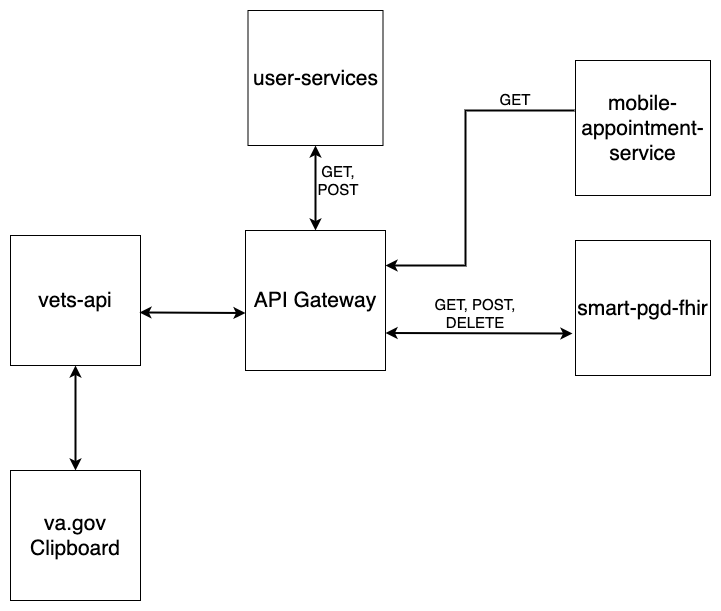
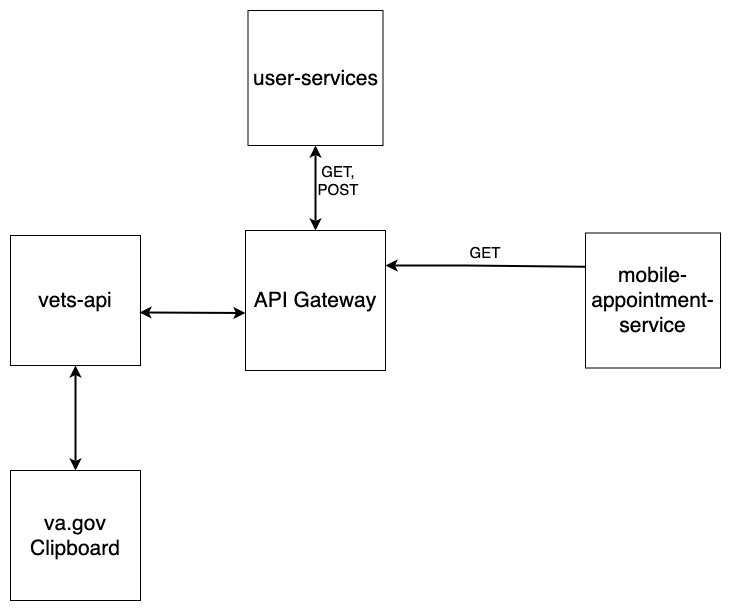
updated MAP access request for appt data for Clipboard app

diff --git a/products/health-care/questionnaire/engineering/MAP/Clipboard_vagov_sdd.md b/products/health-care/questionnaire/engineering/MAP/Clipboard_vagov_sdd.md
@@ -17,8 +17,6 @@ Veterans unable to consistently share and update current health status and medic
 
 When going to a healthcare visit, I want to share my current health status and medical history so that my information can influence and be used to create my treatement plan accross the coninium of care.
 
-VA has implemented a FHIR API that provides external access to Veteran personal health information in the Patient Generated Data (PGD) database in a standardized FHIR format.
-
 VA wants to deliver an intuitive, accessible, and consistent experience in a personalized and engaging platform to enable Veterans and their caregivers to manage their health and well-being. As the VA expands their digital mobile health portfolio, there is a demand to organize the way veterans engage with their care within the VA.
 
 The va.gov Clipboard application will provide Veterans that primarily use va.gov as their entrypoint to VA Digital Resources the ability to view and complete Questionnaires. The UX will be within the existing va.gov ecosystem that provides an intuitive and familiar experience across the va.gov digital products.
@@ -49,12 +47,9 @@ This is the initial relase of the application, V1 of the Clipboard application o
 
 ### Data Access / Storage Overview
 
-| **Data Type**                 |     **VAMF/VA Source**     | **CRUD Operations** | **Data Classification** | **Reason / Requirement**                                                             |
-| :---------------------------- | :------------------------: | :-----------------: | :---------------------- | :----------------------------------------------------------------------------------- |
-| Patient record                |   smart-pgd-fhir-service   |         CR          | PII                     | Create Patient resource if it does not exist                                         |
-| QuestionnaireResponse records |   smart-pgd-fhir-service   |        CRUD         | PHI                     | Manage appointment pre-visit agenda & supplemental family member history information |
-| Questionnaire records         |   smart-pgd-fhir-service   |          R          | PHI                     | Required as references in QuestionnaireResponse related requests                     |
-| Appointment records           | mobile-appointment-service |          R          | PHI                     | Discover upcoming appointments                                                       |
+| **Data Type**       |     **VAMF/VA Source**     | **CRUD Operations** | **Data Classification** | **Reason / Requirement**       |
+| :------------------ | :------------------------: | :-----------------: | :---------------------- | :----------------------------- |
+| Appointment records | mobile-appointment-service |          R          | PHI                     | Discover upcoming appointments |
 
 ### Data Sensitivty Classification (Mobile App Classification)
 
@@ -68,7 +63,7 @@ This is the initial relase of the application, V1 of the Clipboard application o
 ---
 
 - The Clipboard application is built using the [VA Forms System](https://department-of-veterans-affairs.github.io/veteran-facing-services-tools/forms) which provides a consistent experience for complex forms presented to Veterans.
-- Leverages MAP Services - User Service, Mobile Appointment Service, SMART PGD FHIR.
+- Leverages MAP Services - User Service and Mobile Appointment Service.
 - Networks with vets-api service layer to facilitate calls between va.gov and MAP Services.
 
 ## Conceptual Diagram
@@ -79,11 +74,7 @@ This is the initial relase of the application, V1 of the Clipboard application o
 
 The following describes top level data elements entered by the user into the application:
 
-| **Data Element**             | **Brief Description**                                   | **Where Persisted** |
-| :--------------------------- | :------------------------------------------------------ | :------------------ |
-| Appointment Pre-Visit Agenda | Questions/Answers pertaining to an upcoming appointment | smart-pgd-fhir      |
-
-All data elements persisted in smart-pgd-fhir will have the [Clipboard Provenance/Source mapping](). Additional information on how the data elements are persisted in smart-pgd-fhir can be found in the official Clipboard FHIR mappings at [url text](url).  note: links will be updated when FHIR Mapping is approved.
+- No entered data is stored within the MAP infrastructure
 
 # Logical Design Perspective
 
@@ -94,23 +85,23 @@ All data elements persisted in smart-pgd-fhir will have the [Clipboard Provenanc
 - **User Service** - The User Service is a microservice that operates on the current user session; providing login/logout cababilities. User-Service will be used to facilitate the exchange of a va.gov token for a MAP JWT.
 - **API Gateway** - The API Gateway is a customized Nginx-openresty based solution that enables the Mobile NextGen architecture to create a microservice-based architecture.
 - **Mobile Appointment Service** - The Mobile Appointment Service is a microservice that is used to retrieve patient appointment information (used to create Appointment Pre-Visit Agendas).
-- **SMART PGD FHIR Service** - The SMART PGD FHIR Service is a microservice used to retrieve and persist Patient Generated Data (PGD). All data entered via the Clipboard application is persisted via this service.
 
 ## Interface Design
 
 **Login/Authentication**
 
-The Clipboard Application utilizes existing credentialing workflows on va.gov. Once the user is authenticated a Token is sent on the users behalf to the MAP user-service [JWT Exchange workflow](https://coderepo.mobilehealth.va.gov/projects/IUMS/repos/user-service/browse/docs/externalJwtExchange.md). The validated JWT is returned to vets-api and used for all subsequent calls to MAP resources. More information on the authentication and authorization workflow is available in the [va.gov authentication flow description document](vaos_vagov_authFlow.md).  The MAP JWT expires after 10 minutes and is never exposed to the client application.
+The Clipboard Application utilizes existing credentialing workflows on va.gov. Once the user is authenticated a Token is sent on the users behalf to the MAP user-service [JWT Exchange workflow](https://coderepo.mobilehealth.va.gov/projects/IUMS/repos/user-service/browse/docs/externalJwtExchange.md). The validated JWT is returned to vets-api and used for all subsequent calls to MAP resources. More information on the authentication and authorization workflow is available in the [va.gov authentication flow description document](vaos_vagov_authFlow.md). The MAP JWT expires after 10 minutes and is never exposed to the client application.
 
 The token sent to MAP user-service will be signed with the appropriate private key and configured with the following claims
 
-* **sub**: The unique ID for the user. This will be the user's ICN
-* **idType**: ICN 
-* **firstName, lastName**: The given and family names of the user
-* **iss**: gov.va.clipboard
-* **processRules**: true
+- **sub**: The unique ID for the user. This will be the user's ICN
+- **idType**: ICN
+- **firstName, lastName**: The given and family names of the user
+- **iss**: gov.va.clipboard
+- **processRules**: true
 
 The MAP JWT is stored in a secure Redis instance and corelated to the authenticated user with a UUID:
+
 ```Ruby
 module HealthQuest
   class SessionStore < Common::RedisStore
@@ -125,56 +116,34 @@ end
 
 ![](diagrams/JWT_Exchange.png "Figure 2 - Auth Diagram")
 
-**Get/Create Patient**
+**Logout**
 
-After authentication, the application will attempt to retrieve the user's Patient resource within SMART-PGD-FHIR. If the user does not have an existing Patient resource, then one will be created with the user name, ICN as an identifier, and Clipboard Provenance/Source Mapping.
+- The token stored in Redis is invalidated after 15 minutes and the user has to re-authenticate for any subsequent calls into MAP.
 
-![](diagrams/createPatient.png "Figure 4 - Create Patient Diagram")
+**Get Appointments for Veteran**
 
-**Get Past Questionnaire Response Resources**
-The Clipboard Application will call smart-pgd-fhir service to retrieve all Questionnaire Response Resources associated with a user ICN. This data will be parsed and displayed to the user as a history of past Questionnaire Responses, as well as used to pre-fill data fields on new Questionnaire Responses, as appropriate.
+The Clipboard Application will call the mobile-appointment-service endpoint to retrieve past and upcoming appointments associated with the Veteran.
 
-![](diagrams/QuestionnaireResponsesByUserID.png)
-
-**Get Appointment Pre-Visit Agenda Questionnaire**
-The Clipboard Application will call the mobile-appointment-service endpoint to retrieve upcoming appointments associated with the Veteran. Based on the Synthetic ID of the returned appointements, existing Questionnaire Response (QR) Resources will be queried. If there is no QR Resource already associated with this Appointment ID, the approptiate Questionnaire Resource will be retrieved
-
-![](diagrams/QAndQRFromApptID.png)
-
-**Post Questionnaire Response for Pre-Visit Agenda Questionnaire**
-When the user has completed the form in the Clipboard Application and tapped Submit, a JSON object will be passed to vets-api. Vets-api will format the JSON into a QuestionnaireResponse Resource and POST to smart-pgd-fhir service to persist the Questionnaire Response in the PGD.
-
-![](diagrams/postQuestionnaireResponse.png)
-
-**Put | Delete Questionnaire Response**
-In some scenarios, a Clipboard application user may be able to edit or delete an existing QuestionnaireResponse.
-
-![](diagrams/get_delete_QuestionnaireResponse.png)
+![](diagrams/appointments.png)
 
 The following are a list of requests that are made by the Clipboard Mobile application:
 
-| **Endpoint Called**                                                             | **HTTP Action** | **Mobile/External Service** | **Description**                                                                                                                          |
-| :------------------------------------------------------------------------------ | :-------------- | :-------------------------- | :--------------------------------------------------------------------------------------------------------------------------------------- |
-| /users/v2/session                                                               | POST, GET       | user-service                | POST Facilitates JWT Exchange Workflow and GET provides details to create a new Patient Resource                                                                                          |
-| /smart-pgd-fhir/v1/Patient?identifier={icn}&\_sort:desc=\_lastUpdated&\_count=1 | GET             | smart-pgd-fhir              | Retrieves the user's Patient resource from SMART PGD FHIR via their ICN.                                                                 |
-| /smart-pgd-fhir/v1/Patient                                                      | POST            | smart-pgd-fhir              | Creates the user's Patient resource in SMART PGD FHIR                                                                                    |
-| /smart-pgd-fhir/v1/Questionnaire?id={questionnaire-id}                       | GET             | smart-pgd-fhir              | Retrieves a Questionnaire with matching id, which is used as a reference in subsequent QuestionnaireResponse requests to SMART PGD FHIR. |
-| /smart-pgd-fhir/v1/QuestionnaireResponse?subject={appointment-id}               | GET             | smart-pgd-fhir              | Retrieves a QuestionnaireResponse, where the subject is equal to a given appointment id, from SMART PGD FHIR                             |
-| /smart-pgd-fhir/v1/QuestionnaireResponse                                        | POST            | smart-pgd-fhir              | Creates a QuestionnaireResponse in SMART PGD FHIR                                                                                        |
-| /smart-pgd-fhir/v1/QuestionnaireResponse?author={user-id}                       | GET             | smart-pgd-fhir              | Retrieves all QuestionnaireResponses, where the QuestionnaireResponse.author field is equal to the user id, from SMART PGD               |
-| /smart-pgd-fhir/v1/QuestionnaireResponse/{id}                                   | PUT, DELETE          | smart-pgd-fhir              | Update or Delete a QuestionnaireResponse in SMART PGD FHIR                                                                                        |
-| /patients/{icn}/appointments                                                    | GET             | mobile-appointment-service  | Retrieves appointments for the given user                                                                                                |
+| **Endpoint Called**          | **HTTP Action** | **Mobile/External Service** | **Description**                           |
+| :--------------------------- | :-------------- | :-------------------------- | :---------------------------------------- | --- |
+| /users/v2/login              | GET             | user-service                | Authenticates user                        |
+| /users/v2/session            | GET             | user-service                | Facilitates JWT Exchange Workflow         |     |
+| /patients/{icn}/appointments | GET             | mobile-appointment-service  | Retrieves appointments for the given user |
 
 ## Tech Stack :
 
-| **Question**                                                                                                              | **YES** | **NO** | **Comment - explain why you are using non-standard technologies** |
-| :------------------------------------------------------------------------------------------------------------------------ | :-----: | :----: | :---------------------------------------------------------------: |
-| Are you using any technologies that are not on this page<br> https://wiki.mobilehealth.va.gov/display/DevHelp/Tech+Stack? |    X    |        |             vets-api is built on the Rails platform and utilzes Ruby as part of this service layer               |
-| Are you planning to use up to date versions?                                                                              |    X    |        |                                                                   |
+| **Question**                                                                                                              | **YES** | **NO** |           **Comment - explain why you are using non-standard technologies**            |
+| :------------------------------------------------------------------------------------------------------------------------ | :-----: | :----: | :------------------------------------------------------------------------------------: |
+| Are you using any technologies that are not on this page<br> https://wiki.mobilehealth.va.gov/display/DevHelp/Tech+Stack? |    X    |        | vets-api is built on the Rails platform and utilzes Ruby as part of this service layer |
+| Are you planning to use up to date versions?                                                                              |    X    |        |                                                                                        |
 
 ### Additions / Deviations from Tech Stack
 
-The Clipboard application is being built as part of the va.gov / vets-api platform and thus conforms to the tech stack associated with those platforms.  Notably, Rails is the framework supporting vets-api and is not part of the MAP tech stack linked above.  
+The Clipboard application is being built as part of the va.gov / vets-api platform and thus conforms to the tech stack associated with those platforms. Notably, Rails is the framework supporting vets-api and is not part of the MAP tech stack linked above.
 
 ## Logical Persistence Model :
 
@@ -205,7 +174,6 @@ The Clipboard application authenticates with the existing va.gov authentication 
 | **Office of the VA CTO PM or POC** | **VA E-Mail Address** | **Phone Number** |
 | Ming Ligh | ming.ligh@va.gov | |
 | Lauren Alexanderson |lauren.alexanderson@va.gov||
-| Patrick Bateman | patrick.bateman@va.gov | |
 | | | |
 
 ## Appendix
